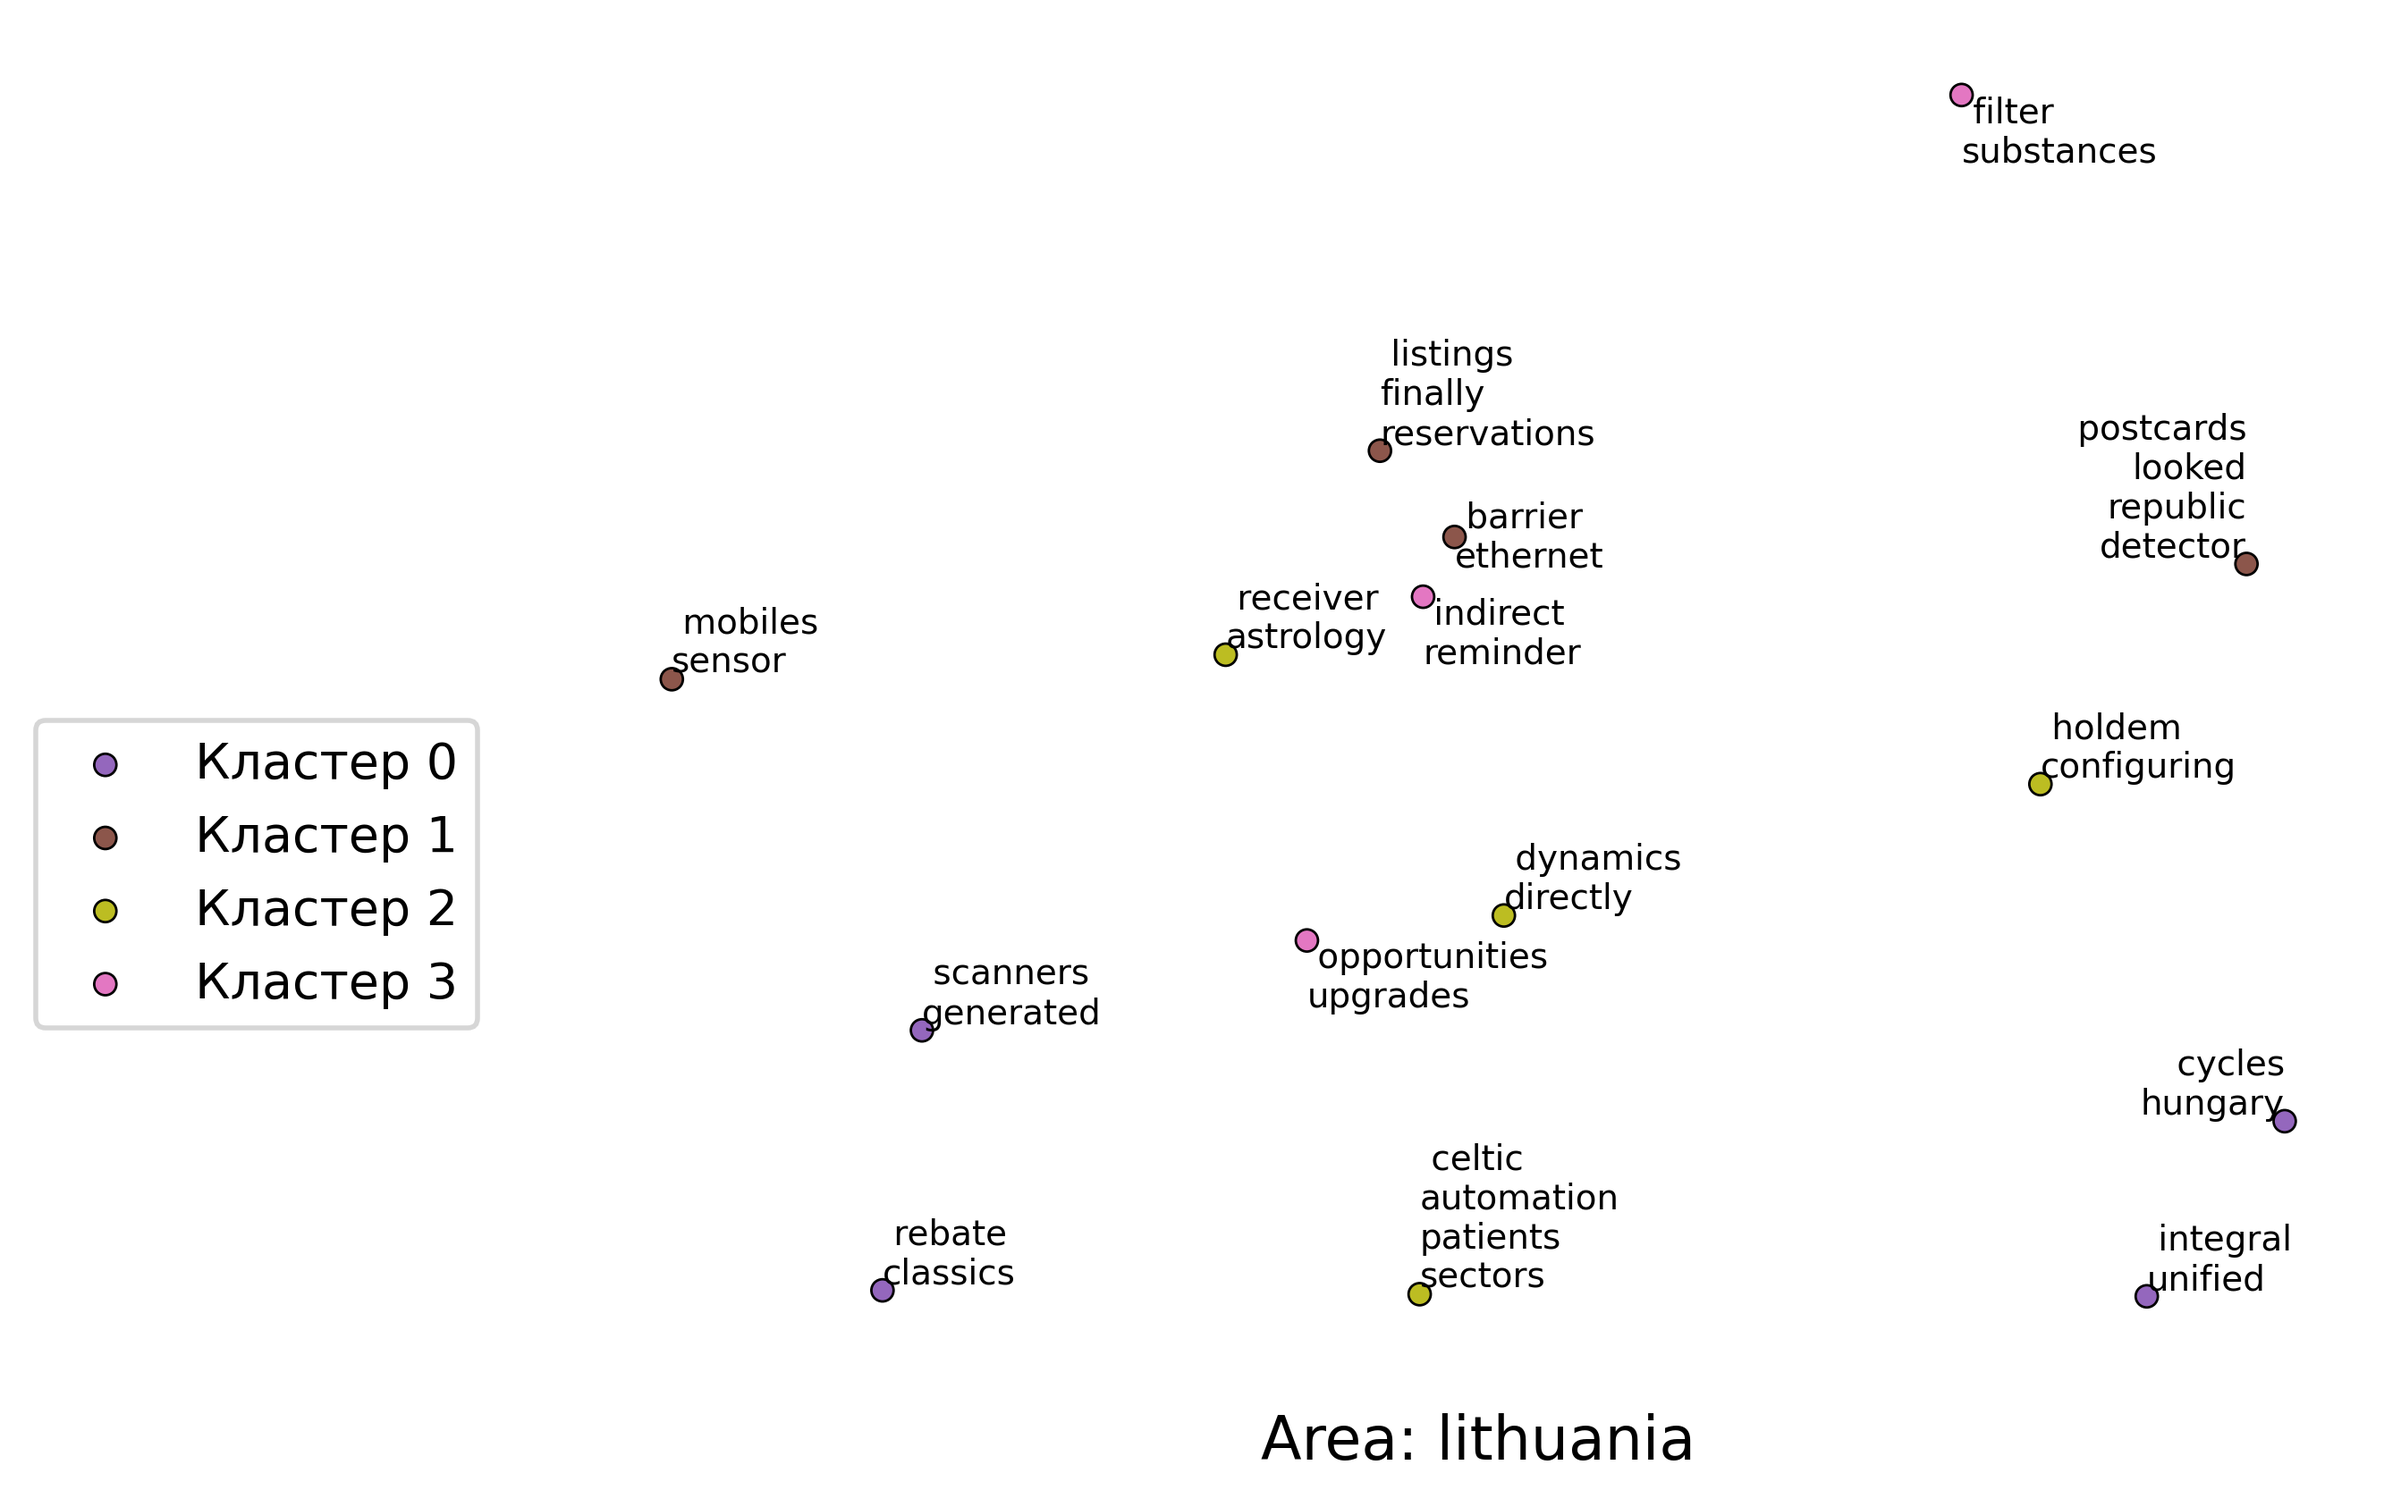
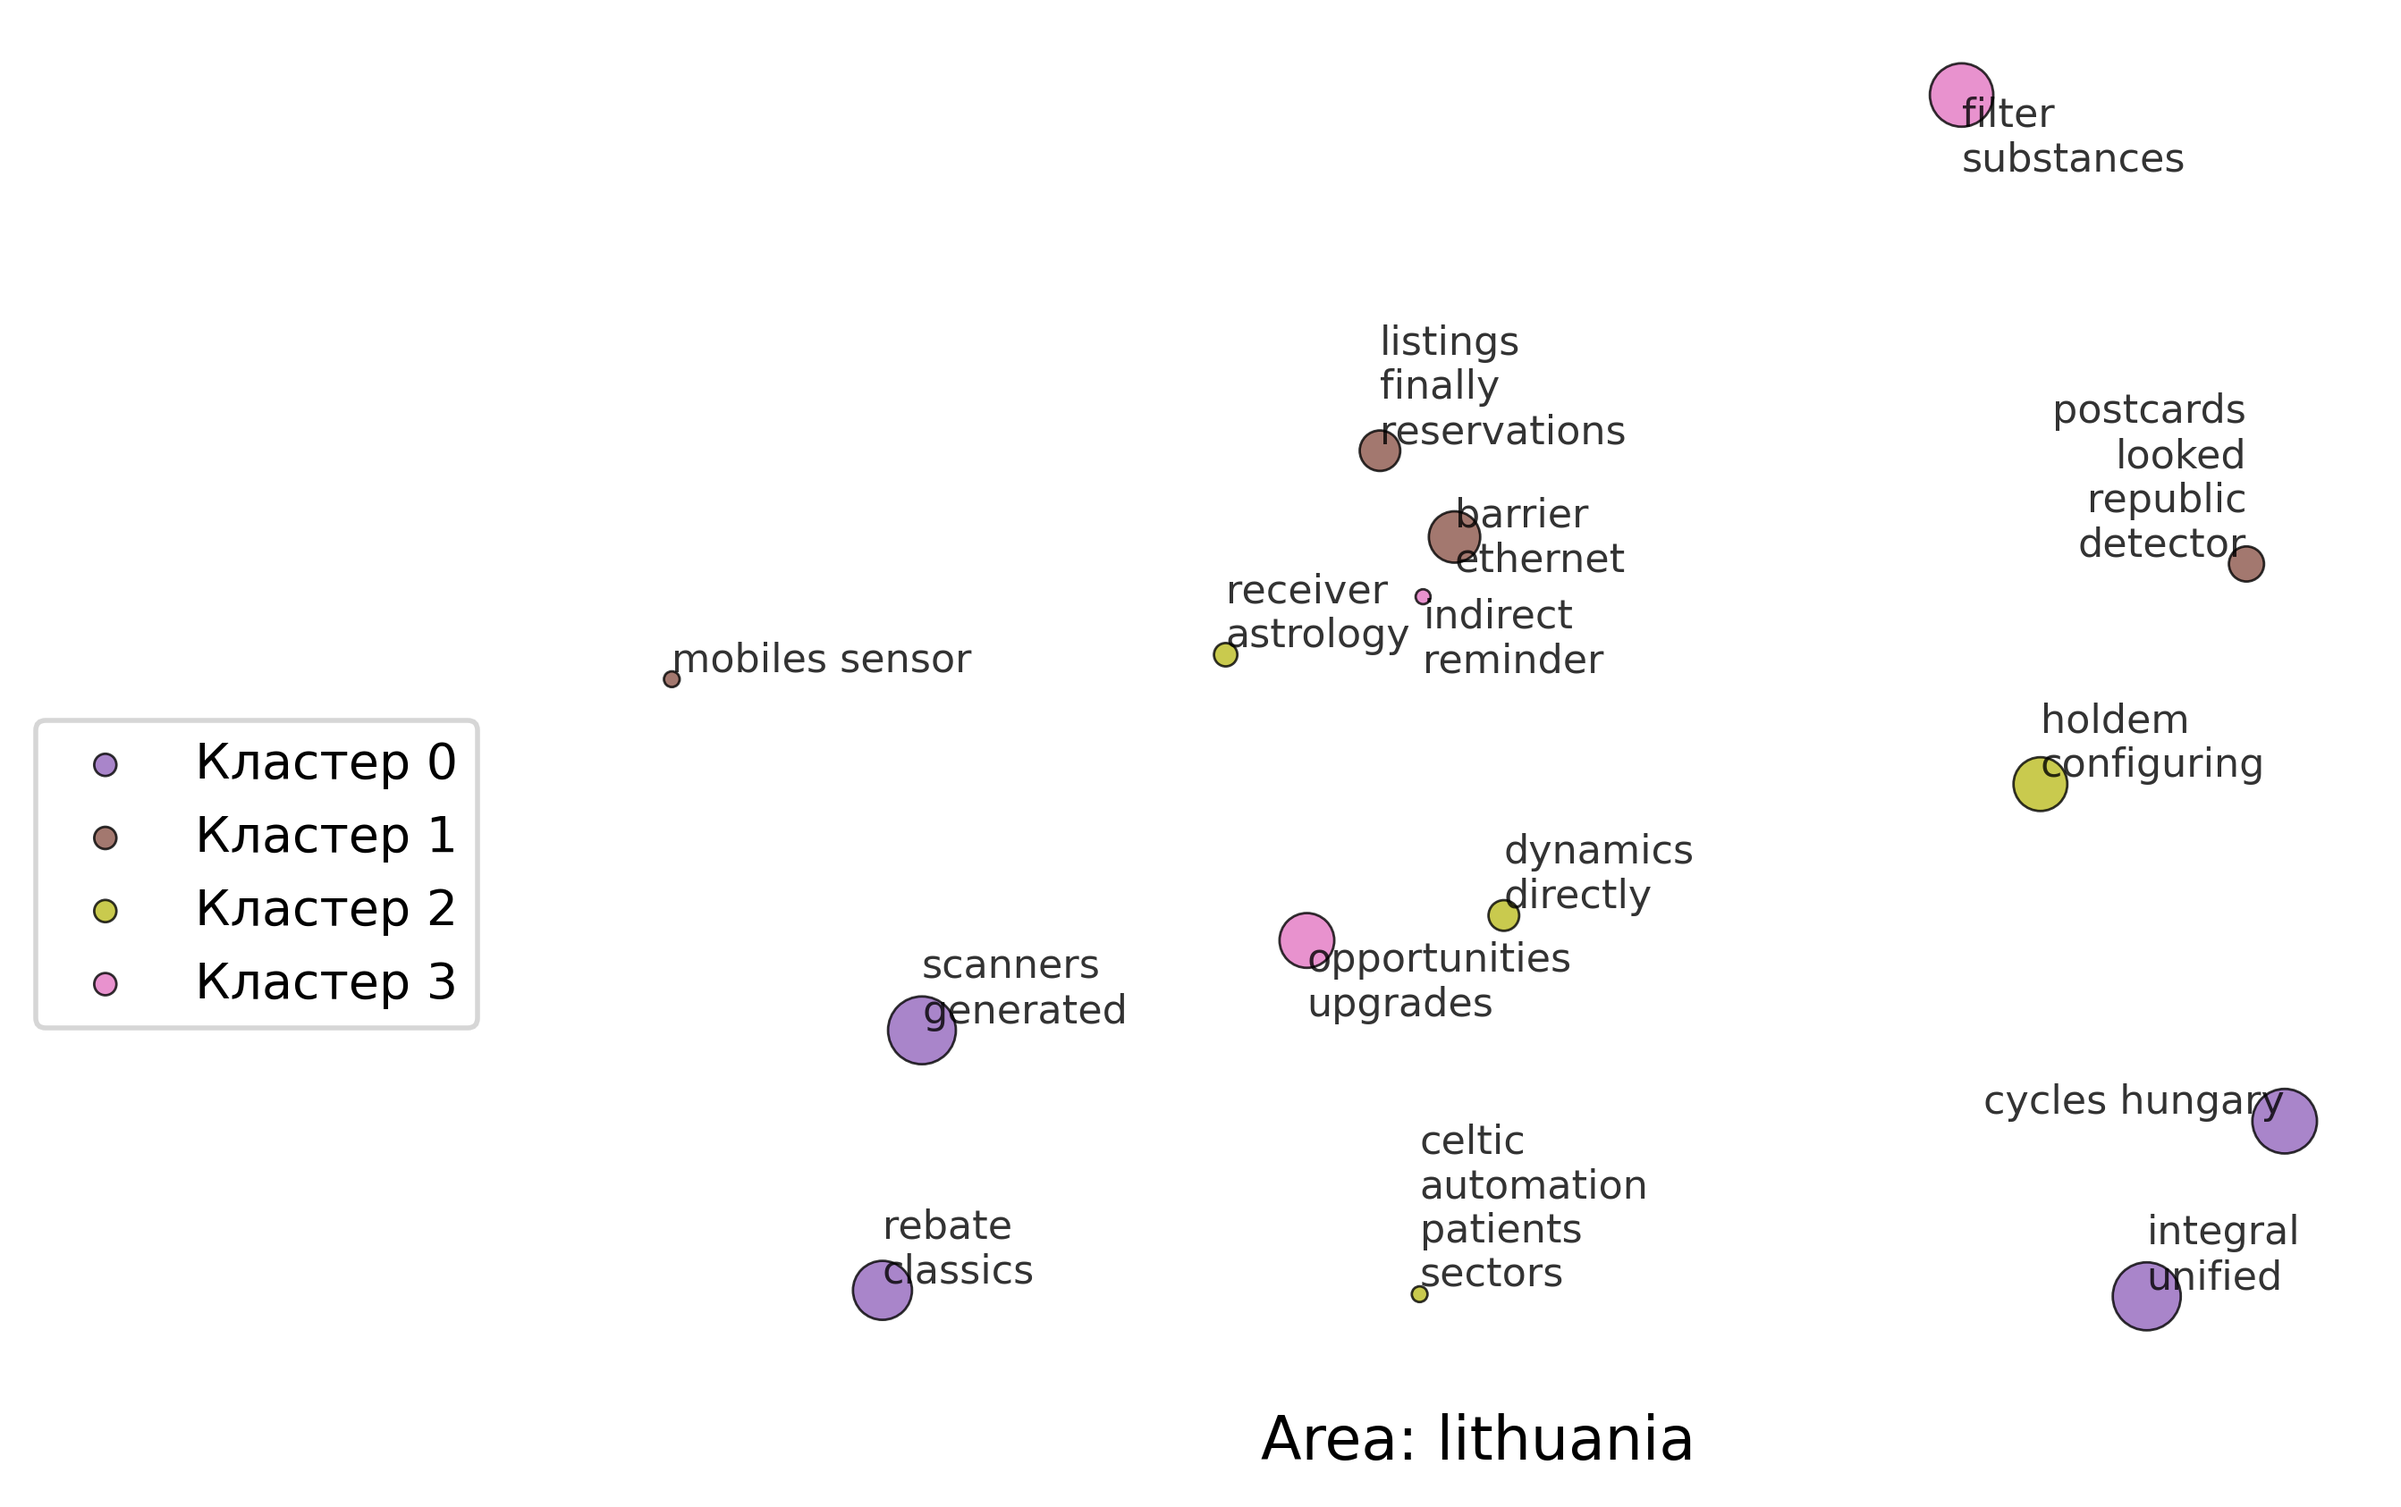
Улучшение графиков

diff --git a/task_2.py b/task_2.py
@@ -8,8 +8,8 @@ def text_cutter(text):
     """Разбивает входной текст на строки"""
 
     text_split = text.split()
-    total_string = ""
-    for i in text_split:
+    total_string = text_split[0]
+    for i in text_split[1:]:
         if len(total_string.split("\n")[-1])+len(i)+1 >= 15:
             total_string = f"{total_string}\n{i}"
         else:
@@ -39,29 +39,35 @@ def main():
         for cluster_iteration in df_area.cluster_name.unique():
             df_cluster = df_area[df_area.cluster_name == cluster_iteration]
             df_cluster.plot.scatter(
-                x='x',
-                y='y',
+                x="x",
+                y="y",
                 ax=ax,
                 c=df_cluster.colors.tolist(),
                 label=cluster_iteration,
                 marker="o",
                 edgecolor="black",
-                linewidths=0.5
+                linewidths=0.5,
+                s=df_cluster["count"]/10+6,
+                alpha=0.8
             )
 
             for _, row_series in df_cluster.iterrows():
                 texts_to_adjust.append(
                     ax.annotate(text=text_cutter(row_series.keyword),
                                 xy=(row_series.x, row_series.y),
-                                # arrowprops={"arrowstyle": "->"},
-                                fontsize=7)
+                                fontsize=8)
                 )
+            for texts in texts_to_adjust:
+                texts.set_alpha(.8)
 
         ax.grid(False)
         ax.axis('off')
         ax.set_title(f"Area: {area_iteration}", y=-0.1)
 
         lgd = ax.legend(bbox_to_anchor=(-0.05, 0.5))
+
+        for handle in lgd.legendHandles:
+            handle.set_sizes([20.0])
 
         adjust_text(texts_to_adjust)
 
